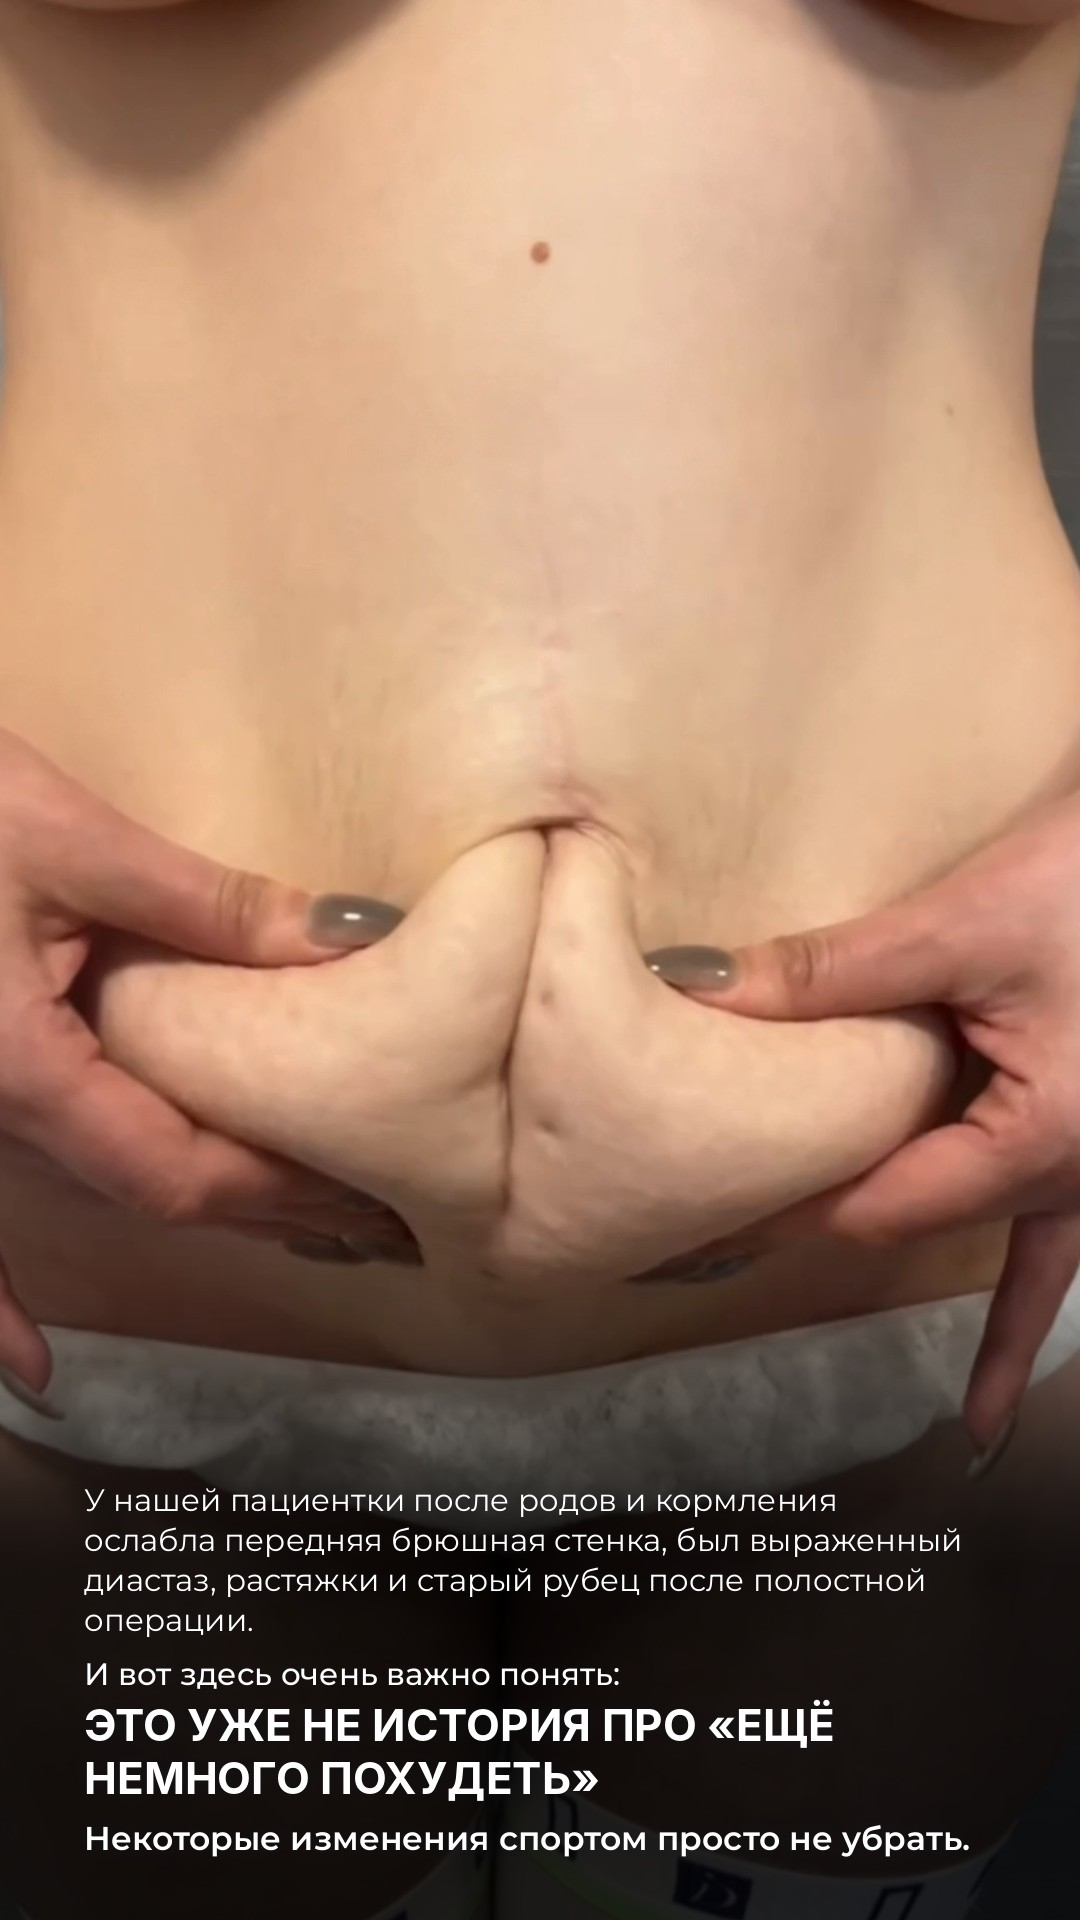
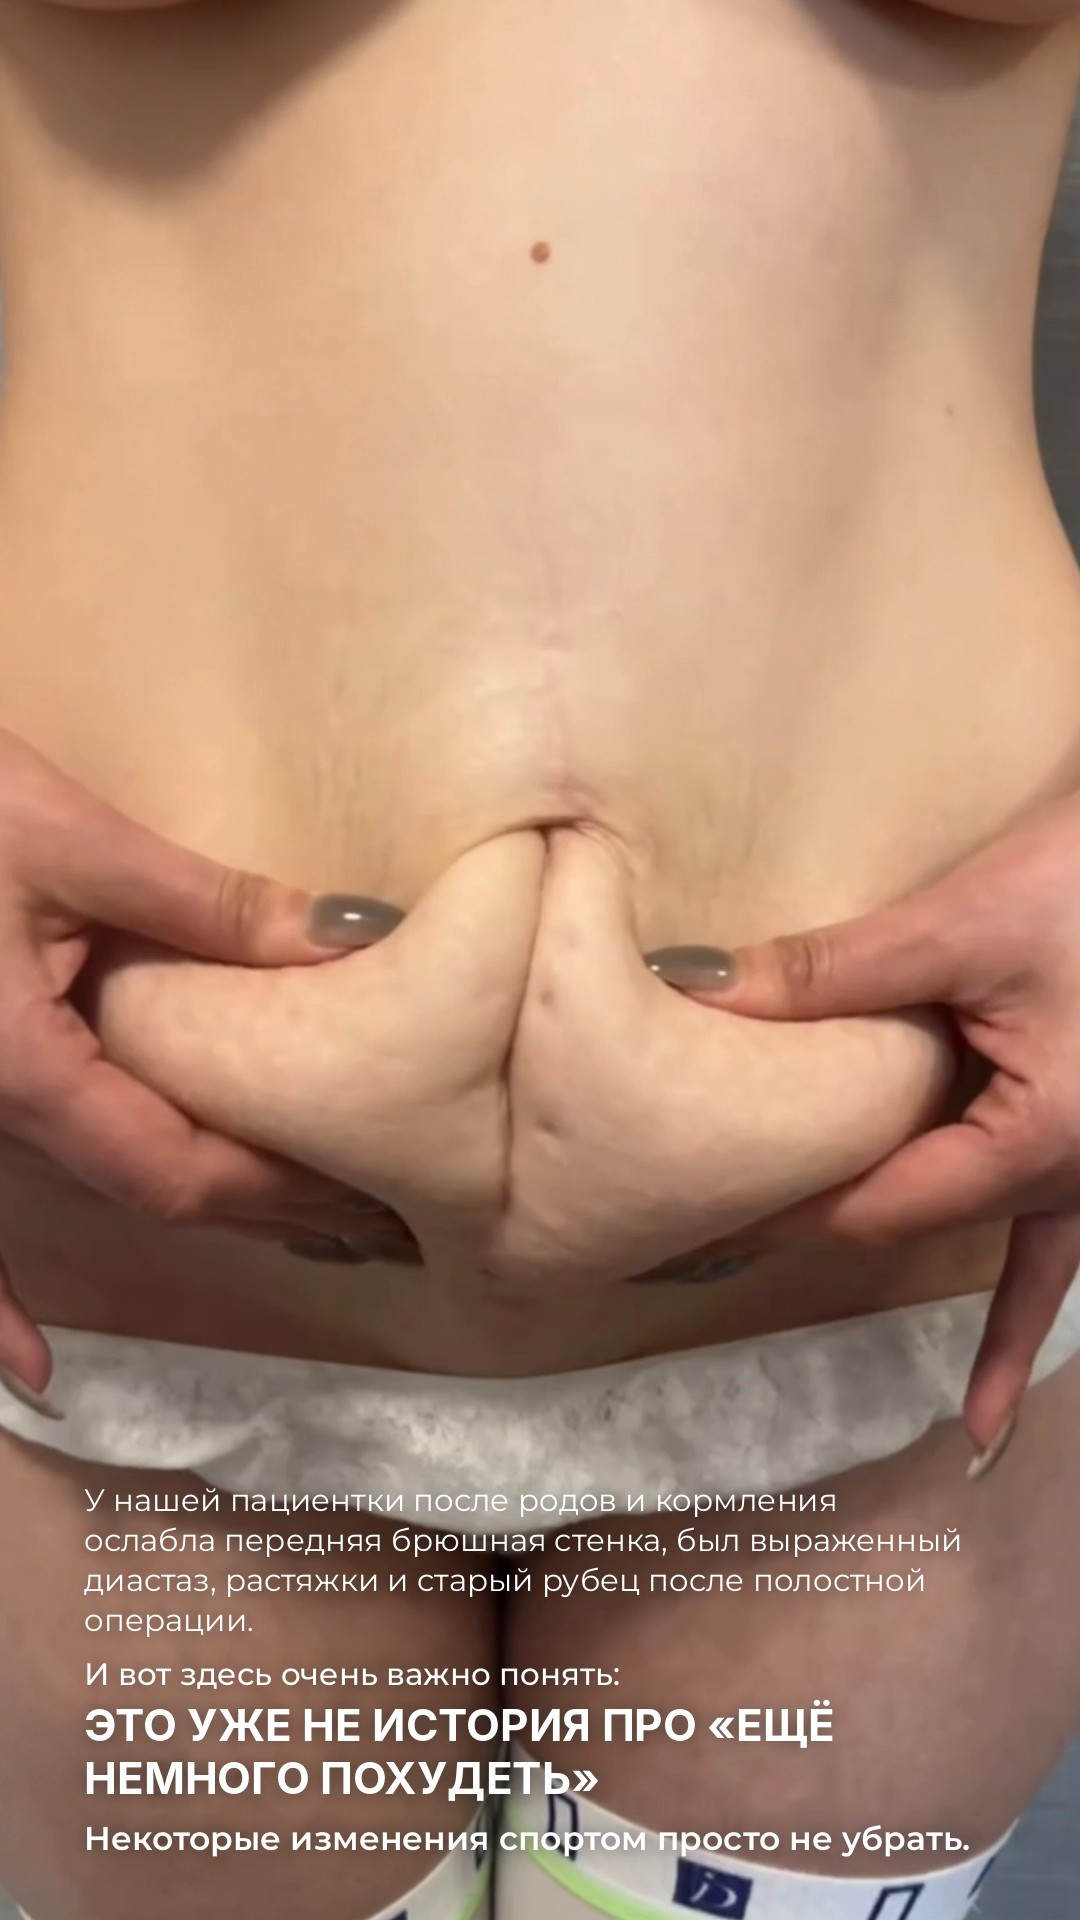
Postpartum stories: story 2 without black under the text, smaller stickers on 5, story 10 only about the consultation
Claude-Session: https://claude.ai/code/session_01DoBoRz2HUe4yvMBz6dWv4L

Changed region(s): [[0.0, 0.6562, 1.0, 1.0]]

diff --git a/tools/stories_postpartum_abdo_implants.py b/tools/stories_postpartum_abdo_implants.py
@@ -266,14 +266,14 @@ def s1():
 
 
 def s2():
-    """before (belly) video full frame; the text low on the thighs under a black fade, the belly open"""
+    """before (belly) video full frame; the text straight on it low on the thighs (no black), the belly open"""
     b = (Block().body("У нашей пациентки после родов и кормления ослабла передняя брюшная стенка, был выраженный диастаз, "
                       "растяжки и старый рубец после полостной операции.", 31, gap=14)
          .body("И вот здесь очень важно понять:", 31, wght=500, gap=6)
          .head("ЭТО УЖЕ НЕ ИСТОРИЯ ПРО «ЕЩЁ НЕМНОГО ПОХУДЕТЬ»", 44, gap=12)
          .body("Некоторые изменения спортом просто не убрать.", 33, wght=600, gap=0))
     top = H - 60 - b.h; ly = Image.new("RGBA", (W, H), (0, 0, 0, 0)); b.draw(ly, MARGIN, top)
-    render_video("02_diastaz.mp4", "IMG_0337.MOV", 0.0, 9.9, ly, fade(top + 40, 300, 0.85))
+    render_video("02_diastaz.mp4", "IMG_0337.MOV", 0.0, 9.9, ly, NOSHADE)        # body full screen, no black under the text
 
 
 def arrow(d, p0, p1, width=3, head=13):
@@ -351,7 +351,7 @@ def s5():
                                 os.path.join(DRIVE, "day1.mp4")], capture_output=True, text=True).stdout)
     # hand-placed nipples (near, far) at the start of each shot, then optical flow
     pos = track("day1.mp4", dur, [[(757, 1452), (730, 1290)], [(752, 1402), (733, 1276)]])
-    st = [sticker_rgba(118), sticker_rgba(96)]
+    st = [sticker_rgba(88), sticker_rgba(72)]
 
     def stick(fr, i):
         f = fr.astype(np.float32) / 255
@@ -385,16 +385,13 @@ def s9():
 
 
 def s10():
-    """the invitation on its own slide: photo of the surgeon at work (DSC00932), text low under the usual black fade"""
+    """only the consultation: photo of the surgeon at work (DSC00932), text low under the usual black fade"""
     cv = photo("DSC00932.JPG").resize((W, H), Image.LANCZOS)
-    b = (Block().head("ЕСЛИ ВЫ СМОТРИТЕ НА НАШЕ ДО И ДУМАЕТЕ:", 44, gap=14)
-         .body("«У меня очень похоже»", 31, gap=0).body("«Живот так и не восстановился после родов»", 31, gap=0)
-         .body("«Грудь стала другой»", 31, gap=0).body("«Хочу снова чувствовать себя собой»", 31, gap=18)
-         .head("ПРИХОДИТЕ НА КОНСУЛЬТАЦИЮ", 44, gap=10)
-         .body("Посмотрим ваше ДО, состояние тканей и обсудим, какой объём коррекции имеет смысл именно в вашем случае.", 29, gap=14)
-         .body("Для записи напишите в Direct «КОНСУЛЬТАЦИЯ» или свяжитесь с нами по телефону", 29, gap=8)
-         .plate("+7 926 636 30 00", 32, wght=600, gap=8)
-         .body("в WhatsApp, Telegram или MAX.", 29, gap=0))
+    b = (Block().head("ПРИХОДИТЕ НА КОНСУЛЬТАЦИЮ", 54, gap=16)
+         .body("Посмотрим ваше ДО, состояние тканей и обсудим, какой объём коррекции имеет смысл именно в вашем случае.", 33, gap=18)
+         .body("Для записи напишите в Direct «КОНСУЛЬТАЦИЯ» или свяжитесь с нами по телефону", 33, gap=10)
+         .plate("+7 926 636 30 00", 36, wght=600, gap=10)
+         .body("в WhatsApp, Telegram или MAX.", 33, gap=0))
     top = H - 70 - b.h
     cv = Image.fromarray((np.asarray(cv, np.float32) * (1 - fade(top + 60, 420, 0.88))).astype(np.uint8)).convert("RGBA")
     ly = Image.new("RGBA", (W, H), (0, 0, 0, 0)); b.draw(ly, MARGIN, top); cv.alpha_composite(ly)

diff --git a/stories_postpartum_abdo_implants/README.md b/stories_postpartum_abdo_implants/README.md
@@ -10,7 +10,7 @@
 | № | Файл | Фон | Текст |
 |---|------|-----|-------|
 | 1 | 01_posle_rodov.mp4 | видео ДО в 3/4 (IMG_0336) на весь экран, текст на бёдрах | «ПОСЛЕ РОДОВ Я ВРОДЕ ВЕРНУЛАСЬ В СВОЙ ВЕС… НО ТЕЛО УЖЕ СТАЛО ДРУГИМ» + 3 строки; между текстом и телом — место под опрос «Узнаёте себя? Очень / Частично». Текст не на теле |
-| 2 | 02_diastaz.mp4 | видео ДО живота (IMG_0337) на весь экран, текст на груди, живот открыт | про стенку живота, диастаз, растяжки, рубец; ЭТО УЖЕ НЕ ИСТОРИЯ ПРО «ЕЩЁ НЕМНОГО ПОХУДЕТЬ» |
+| 2 | 02_diastaz.mp4 | видео ДО живота (IMG_0337) на весь экран, текст внизу прямо на видео, без чёрного | про стенку живота, диастаз, растяжки, рубец; ЭТО УЖЕ НЕ ИСТОРИЯ ПРО «ЕЩЁ НЕМНОГО ПОХУДЕТЬ» |
 | 3 | 03_grud.jpg | ДО груди 3/4 (IMG_8390), плашка «наше до» и две короткие стрелки к груди | ГРУДЬ ТОЖЕ ИЗМЕНИЛАСЬ…; внизу место под опрос «Рубцы / Сама операция» |
 | 4 | 04_dve_zony.jpg | операционная | МЫ РЕШИЛИ РАБОТАТЬ СРАЗУ С ДВУМЯ ЗОНАМИ; две операции на синих плашках (без «и») |
 | 5 | 05_pervye_sutki.mp4 | первые сутки, голос хирурга; стикеры клиники на сосках (ведутся по видео оптическим потоком) | ПЕРВЫЕ СУТКИ / Это ещё ранний результат… |
@@ -18,7 +18,7 @@
 | 7 | 07_kollazh_3-4.jpg | коллаж клиники в 3/4 (IMG_8395) | без текста |
 | 8 | 08_kollazh_sboku.jpg | коллаж клиники сбоку (IMG_8396) | без текста |
 | 9 | 09_ne_v_usiliyah.mp4 | хирург на операции (C0585, без звука) | И ВОТ ЧТО ХОЧЕТСЯ СКАЗАТЬ ЖЕНЩИНАМ…, три мысли, «Иногда дело уже не в усилиях» |
-| 10 | 10_konsultaciya.jpg | хирург на операции (DSC00932) | ЕСЛИ ВЫ СМОТРИТЕ НА НАШЕ ДО И ДУМАЕТЕ… ПРИХОДИТЕ НА КОНСУЛЬТАЦИЮ, телефон на плашке |
+| 10 | 10_konsultaciya.jpg | хирург на операции (DSC00932) | только консультация: ПРИХОДИТЕ НА КОНСУЛЬТАЦИЮ, что посмотрим, как записаться, телефон на плашке |
 
 Коллажи — присланные клиникой, как есть, без текста и стрелок; текст вынесен на отдельные слайды 9 и 10. Место под опрос на
 1-й сторис — справа вверху на стене.
